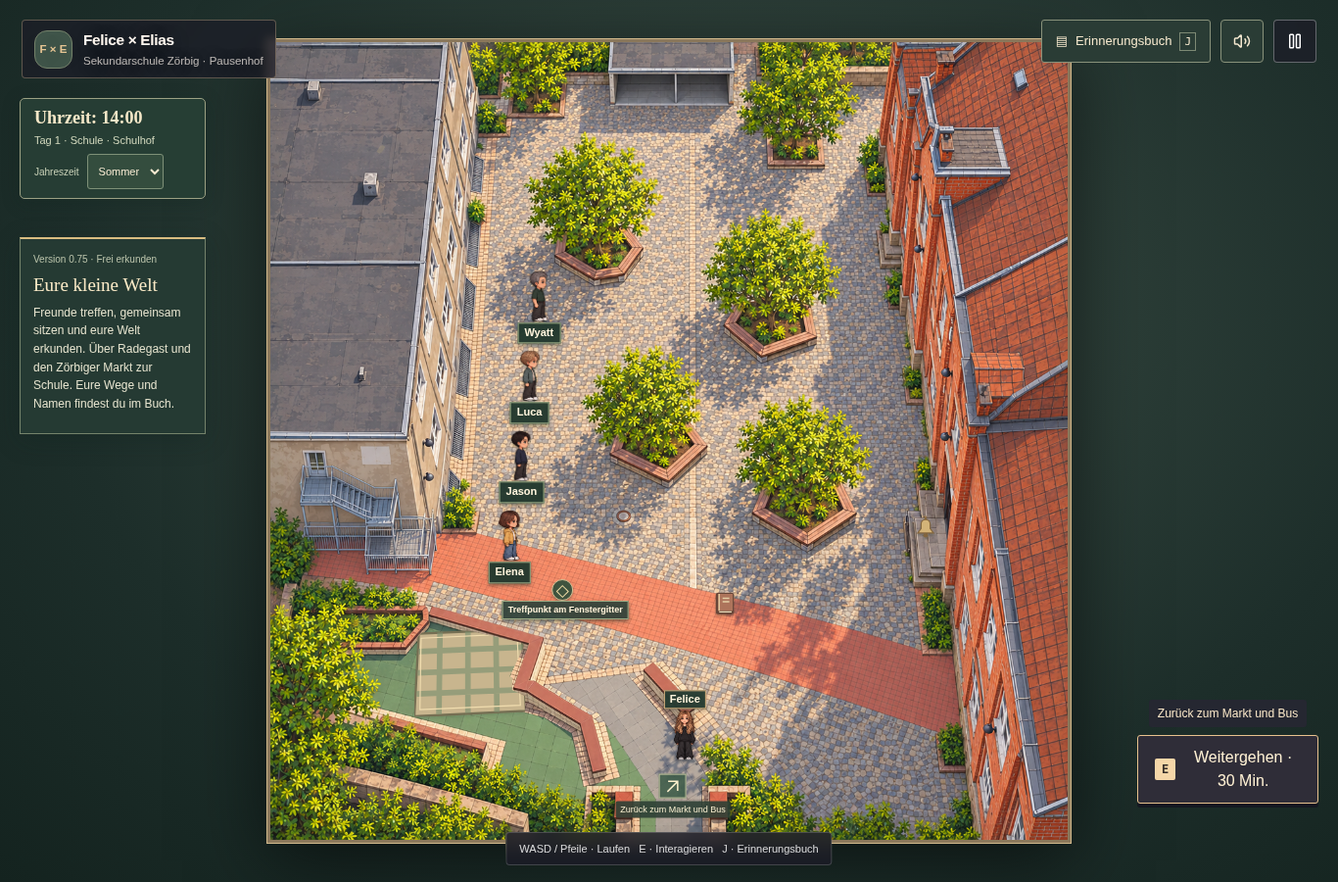
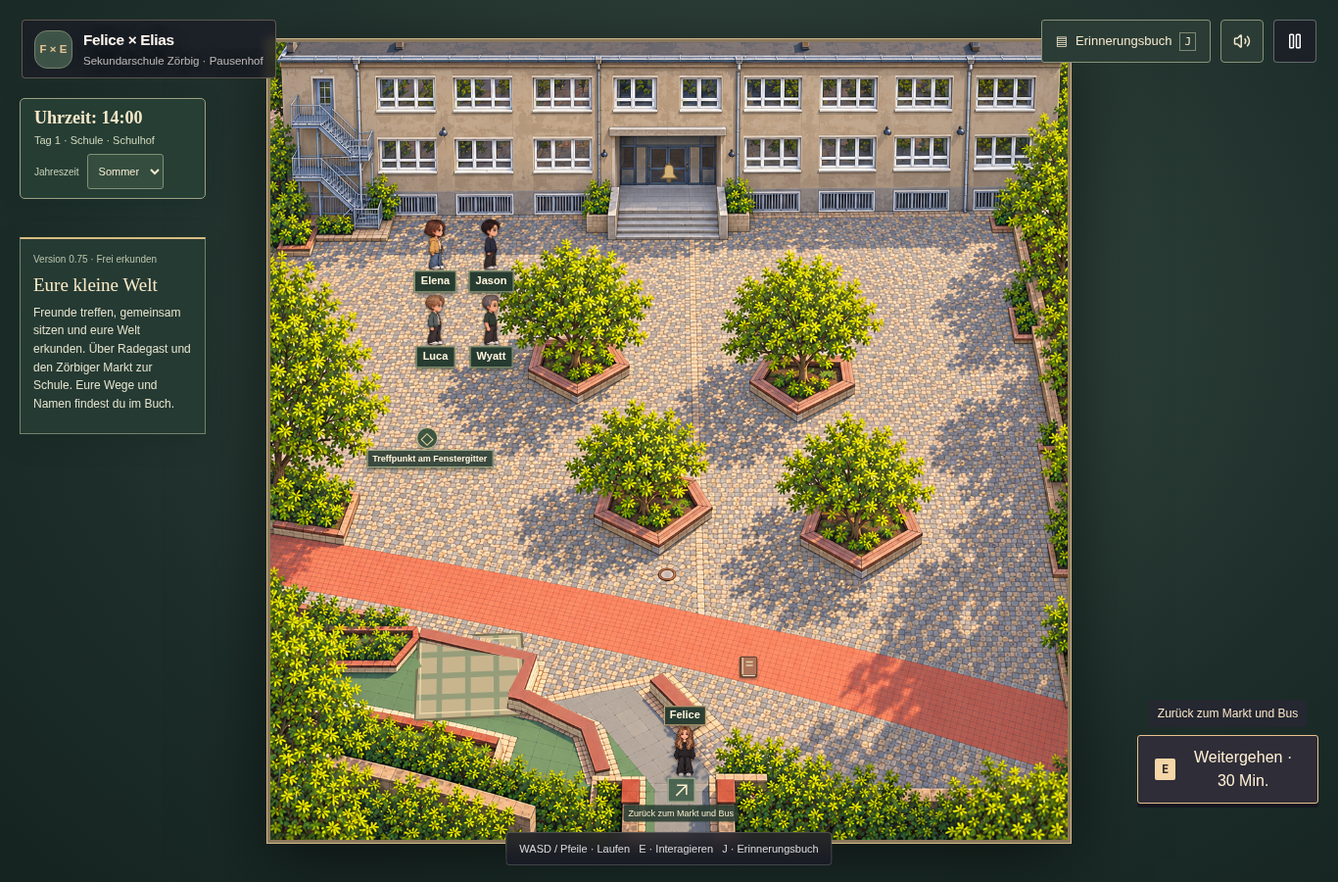
V0.75: center secondary-school entrance in courtyard background

diff --git a/game/story.ts b/game/story.ts
@@ -31,9 +31,9 @@ export const PLACES: Record<Place, { name: string; subtitle: string; exits: Exit
   ], obstacles: [] },
   zoerbig: { name: "Zörbig · Markt und Schulweg", subtitle: "Von der Bushaltestelle zur Grünstraße", exits: [
     { x: .47, y: .20, to: "bus", label: "Bus zurück nach Radegast", spawn: { x: .74, y: .47 } },
-    { x: .17, y: .76, to: "school", label: "Zum Pausenhof", spawn: { x: .52, y: .90 } },
+    { x: .17, y: .76, to: "school", label: "Zum Pausenhof", spawn: { x: .52, y: .92 } },
   ], obstacles: [{ left: .525, right: .555, top: .15, bottom: .21 }] },
-  school: { name: "Sekundarschule Zörbig · Pausenhof", subtitle: "Treffpunkt an den Fenstergittern", exits: [{ x: .505, y: .945, to: "zoerbig", label: "Zurück zum Markt und Bus", spawn: { x: .20, y: .75 } }], obstacles: [] },
+  school: { name: "Sekundarschule Zörbig · Pausenhof", subtitle: "Treffpunkt an den Fenstergittern", exits: [{ x: .515, y: .95, to: "zoerbig", label: "Zurück zum Markt und Bus", spawn: { x: .20, y: .75 } }], obstacles: [] },
   goelzau: { name: "Gölzau · Weg zum Schützenhaus", subtitle: "Ankommen, Freunde treffen, zusammen schießen", exits: [
     { x: .90, y: .65, to: "bus", label: "Zurück nach Radegast", spawn: { x: .82, y: .76 } },
     { x: .265, y: .285, to: "range", label: "Ins Schützenhaus", spawn: { x: .5, y: .82 } },
@@ -81,13 +81,13 @@ export const ENTITIES: Record<Place, Entity[]> = {
     { id: "ticket", name: "Fahrkarte", x: .39, y: .48, display: { x: .405, y: .40 }, kind: "item", art: "ticket", text: "Eine Fahrkarte für den gemeinsamen Weg." },
   ],
   school: [
-    { id: "school-grille", name: "Treffpunkt am Fenstergitter", x: .32, y: .60, display: { x: .37, y: .70 }, kind: "item", art: "landmark", text: "Die niedrigen Gitter sitzen vor den unteren Fenstern des grauen Schulgebäudes. Hier stehen Elena, Jason, Luca und Wyatt in der Pause." },
-    { id: "friends", name: "Elena", x: .27, y: .66, kind: "person", art: "elena", text: "Hey Felice! Wir treffen uns am Gitter beim Schulgebäude. Bleibst du noch ein bisschen bei mir?" },
-    { id: "jason", name: "Jason", x: .285, y: .56, kind: "person", art: "jason", text: "Hey. Ich mache gerade eine kleine Pause am Gitter. Du kannst dich gern dazustellen." },
-    { id: "luca", name: "Luca", x: .295, y: .46, kind: "person", art: "luca", text: "Hallo Felice. Heute ist es hier ziemlich ruhig. Das mag ich." },
-    { id: "wyatt", name: "Wyatt", x: .305, y: .36, kind: "person", art: "wyatt", text: "Hey Felice! Schön, dass du da bist." },
-    { id: "notebook", name: "Vergessenes Heft", x: .57, y: .72, kind: "item", art: "book", text: "Jemand hat ein Heft liegen gelassen." },
-    { id: "school-door", name: "Schultür", x: .77, y: .684, display: { x: .822, y: .625 }, kind: "item", art: "bell", text: "Der Unterricht ist vorbei. Zeit für den gemeinsamen Heimweg." },
+    { id: "school-grille", name: "Treffpunkt am Fenstergitter", x: .225, y: .35, display: { x: .20, y: .51 }, kind: "item", art: "landmark", text: "Die niedrigen Gitter sitzen vor den unteren Fenstern des grauen Schulgebäudes. Hier stehen Elena, Jason, Luca und Wyatt in der Pause." },
+    { id: "friends", name: "Elena", x: .18, y: .295, kind: "person", art: "elena", text: "Hey Felice! Wir treffen uns am Gitter beim Schulgebäude. Bleibst du noch ein bisschen bei mir?" },
+    { id: "jason", name: "Jason", x: .25, y: .295, kind: "person", art: "jason", text: "Hey. Ich mache gerade eine kleine Pause am Gitter. Du kannst dich gern dazustellen." },
+    { id: "luca", name: "Luca", x: .18, y: .39, kind: "person", art: "luca", text: "Hallo Felice. Heute ist es hier ziemlich ruhig. Das mag ich." },
+    { id: "wyatt", name: "Wyatt", x: .25, y: .39, kind: "person", art: "wyatt", text: "Hey Felice! Schön, dass du da bist." },
+    { id: "notebook", name: "Vergessenes Heft", x: .60, y: .80, kind: "item", art: "book", text: "Jemand hat ein Heft liegen gelassen." },
+    { id: "school-door", name: "Eingang der Sekundarschule", x: .50, y: .28, display: { x: .50, y: .18 }, kind: "item", art: "bell", text: "Der Unterricht ist vorbei. Zeit für den gemeinsamen Heimweg." },
   ],
   range: [{ id: "range-host", name: "Am Schießstand", x: .32, y: .57, kind: "person", art: "host", text: "Die Bahn ist bereit. Neun Schüsse, drei Scheiben. Nimm dir Zeit." }, { id: "shoot", name: "Schießbahn", x: .5, y: .44, kind: "item", art: "target", text: "Bereit für deine Runde?" },
     { id: "ida", name: "Ida", x: .19, y: .68, kind: "person", art: "ida", text: "Hallo Felice! Schön, dich beim Schießen zu sehen." },
@@ -169,26 +169,30 @@ const WALK_AREAS: Partial<Record<Place, Point[][]>> = {
   ],
   goelzau: [[{x:.09,y:.26},{x:.61,y:.24},{x:.65,y:.32},{x:.69,y:.43},{x:.77,y:.50},{x:.83,y:.59},{x:.95,y:.59},{x:.95,y:.70},{x:.83,y:.73},{x:.79,y:.63},{x:.72,y:.55},{x:.66,y:.49},{x:.52,y:.45},{x:.35,y:.43},{x:.20,y:.42},{x:.09,y:.35}]],
 };
-// Ground footprints measured against the high overhead school courtyard.
-// The green corner remains reachable around the southern tip of its sitting wall.
+// Secondary-school facade and centered entrance at the back of the courtyard.
+// The primary school is outside this scene; only a planting strip bounds the right.
 const SOLID_AREAS: Partial<Record<Place, Point[][]>> = {
   school: [
-    [{x:0,y:0},{x:0.27,y:0},{x:0.263,y:0.137},{x:0.244,y:0.35},{x:0.228,y:0.56},{x:0.221,y:0.616},{x:0.205,y:0.669},{x:0,y:0.669}],
-    [{x:0.773,y:0},{x:1,y:0},{x:1,y:1},{x:0.869,y:1},{x:0.82,y:0.83},{x:0.792,y:0.59},{x:0.779,y:0.37},{x:0.762,y:0.22}],
-    [{x:0.355,y:0.262},{x:0.405,y:0.246},{x:0.455,y:0.253},{x:0.468,y:0.263},{x:0.444,y:0.296},{x:0.408,y:0.304},{x:0.357,y:0.284}],
-    [{x:0.568,y:0.348},{x:0.61,y:0.325},{x:0.665,y:0.335},{x:0.694,y:0.376},{x:0.621,y:0.4},{x:0.57,y:0.361}],
-    [{x:0.426,y:0.511},{x:0.47,y:0.49},{x:0.525,y:0.497},{x:0.55,y:0.514},{x:0.507,y:0.559},{x:0.43,y:0.529}],
-    [{x:0.603,y:0.59},{x:0.65,y:0.562},{x:0.73,y:0.573},{x:0.739,y:0.598},{x:0.668,y:0.64},{x:0.608,y:0.614}],
-    [{x:0.621,y:0.126},{x:0.69,y:0.126},{x:0.699,y:0.156},{x:0.624,y:0.16}],
-    [{x:0.196,y:0.705},{x:0.344,y:0.742},{x:0.343,y:0.761},{x:0.329,y:0.809},{x:0.3,y:0.795},{x:0.32,y:0.754},{x:0.189,y:0.724}],
-    [{x:0.304,y:0.79},{x:0.39,y:0.836},{x:0.414,y:0.914},{x:0.394,y:0.927},{x:0.384,y:0.85},{x:0.303,y:0.812}],
-    [{x:0.086,y:0.838},{x:0.267,y:0.872},{x:0.286,y:0.888},{x:0.29,y:0.904},{x:0.269,y:0.918},{x:0.25,y:0.885},{x:0.083,y:0.861}],
-    [{x:0.467,y:0.787},{x:0.48,y:0.779},{x:0.529,y:0.841},{x:0.511,y:0.861},{x:0.5,y:0.864},{x:0.461,y:0.808}],
-    [{x:0,y:0.675},{x:0.186,y:0.685},{x:0.199,y:0.72},{x:0.173,y:0.764},{x:0,y:0.764}],
-    [{x:0,y:0.88},{x:0.27,y:0.924},{x:0.322,y:0.957},{x:0.384,y:1},{x:0,y:1}],
-    [{x:0.55,y:0.9},{x:0.632,y:0.9},{x:0.733,y:1},{x:0.55,y:1}],
-    [{x:0.432,y:0.936},{x:0.462,y:0.936},{x:0.468,y:1},{x:0.432,y:1}],
-    [{x:0.548,y:0.94},{x:0.575,y:0.94},{x:0.578,y:1},{x:0.548,y:1}],
+    [{x:0,y:0},{x:1,y:0},{x:1,y:0.223},{x:0,y:0.223}],
+    [{x:0.421,y:0.176},{x:0.578,y:0.176},{x:0.578,y:0.25},{x:0.421,y:0.25}],
+    [{x:0.019,y:0.061},{x:0.136,y:0.061},{x:0.136,y:0.233},{x:0.107,y:0.252},{x:0.022,y:0.239}],
+    [{x:0.325,y:0.402},{x:0.373,y:0.386},{x:0.45,y:0.403},{x:0.457,y:0.415},{x:0.384,y:0.455},{x:0.323,y:0.426}],
+    [{x:0.605,y:0.421},{x:0.646,y:0.398},{x:0.72,y:0.422},{x:0.74,y:0.439},{x:0.671,y:0.478},{x:0.598,y:0.44}],
+    [{x:0.409,y:0.582},{x:0.46,y:0.56},{x:0.538,y:0.584},{x:0.557,y:0.605},{x:0.49,y:0.645},{x:0.402,y:0.604}],
+    [{x:0.676,y:0.611},{x:0.722,y:0.589},{x:0.799,y:0.61},{x:0.821,y:0.636},{x:0.752,y:0.683},{x:0.667,y:0.644}],
+    [{x:0,y:0.242},{x:0.119,y:0.239},{x:0.13,y:0.256},{x:0.057,y:0.267},{x:0,y:0.267}],
+    [{x:0,y:0.276},{x:0.083,y:0.279},{x:0.114,y:0.296},{x:0.093,y:0.34},{x:0,y:0.34}],
+    [{x:0,y:0.55},{x:0.083,y:0.55},{x:0.117,y:0.577},{x:0.088,y:0.63},{x:0,y:0.63}],
+    [{x:0,y:0.759},{x:0.158,y:0.759},{x:0.19,y:0.783},{x:0.16,y:0.797},{x:0,y:0.797}],
+    [{x:0.183,y:0.726},{x:0.339,y:0.765},{x:0.344,y:0.787},{x:0.317,y:0.824},{x:0.296,y:0.819},{x:0.32,y:0.774},{x:0.176,y:0.751}],
+    [{x:0.301,y:0.811},{x:0.415,y:0.86},{x:0.429,y:0.921},{x:0.415,y:0.931},{x:0.398,y:0.879},{x:0.296,y:0.835}],
+    [{x:0.082,y:0.847},{x:0.276,y:0.88},{x:0.305,y:0.904},{x:0.295,y:0.926},{x:0.277,y:0.917},{x:0.274,y:0.901},{x:0.08,y:0.87}],
+    [{x:0.476,y:0.796},{x:0.49,y:0.789},{x:0.557,y:0.86},{x:0.531,y:0.885},{x:0.522,y:0.88},{x:0.464,y:0.815}],
+    [{x:0,y:0.885},{x:0.286,y:0.927},{x:0.362,y:0.964},{x:0.393,y:1},{x:0,y:1}],
+    [{x:0.622,y:0.921},{x:0.717,y:0.921},{x:0.79,y:1},{x:0.622,y:1}],
+    [{x:0.944,y:0.25},{x:1,y:0.25},{x:1,y:1},{x:0.98,y:0.875},{x:0.956,y:0.591}],
+    [{x:0.443,y:0.923},{x:0.479,y:0.923},{x:0.479,y:1},{x:0.443,y:1}],
+    [{x:0.557,y:0.923},{x:0.588,y:0.923},{x:0.588,y:1},{x:0.557,y:1}],
   ],
 };
 function insideArea(x: number, y: number, points: Point[]) {
@@ -202,7 +206,7 @@ function insideArea(x: number, y: number, points: Point[]) {
 export function canWalk(place: Place, x: number, y: number) {
   return (!SOLID_AREAS[place] || !SOLID_AREAS[place]!.some(points => insideArea(x,y,points))) && (!WALK_AREAS[place] || WALK_AREAS[place]!.some(points => insideArea(x,y,points))) && x >= .075 && x <= .94 && y >= .16 && y <= (place === "school" ? .96 : .92) && !PLACES[place].obstacles.some(o => x > o.left - .02 && x < o.right + .02 && y > o.top - .015 && y < o.bottom + .015);
 }
-export const SPAWNS: Record<Place, Point> = { bedroom: { x: .5, y: .7 }, home: { x: .5, y: .78 }, kitchen: { x: .5, y: .85 }, garden: { x: .5, y: .38 }, radegast: { x: .435, y: .28 }, bus: { x: .5, y: .72 }, zoerbig: { x: .61, y: .285 }, school: { x: .52, y: .90 }, goelzau: { x: .86, y: .63 }, range: { x: .5, y: .8 } };
+export const SPAWNS: Record<Place, Point> = { bedroom: { x: .5, y: .7 }, home: { x: .5, y: .78 }, kitchen: { x: .5, y: .85 }, garden: { x: .5, y: .38 }, radegast: { x: .435, y: .28 }, bus: { x: .5, y: .72 }, zoerbig: { x: .61, y: .285 }, school: { x: .52, y: .92 }, goelzau: { x: .86, y: .63 }, range: { x: .5, y: .8 } };
 export function routeTo(from: Place, to: Place): Exit | undefined {
   const queue: { place: Place; first?: Exit }[] = [{ place: from }];
   const seen = new Set<Place>([from]);

diff --git a/game/graphics.ts b/game/graphics.ts
@@ -18,26 +18,27 @@ export const SCENE_GRAPHICS: Record<Place, SceneGraphic> = {
     { clip: "polygon(68% 0%,100% 0%,100% 100%,18% 100%,18% 80%,31% 71%,38% 65%,40% 61%,37% 54%,37% 46%,39% 42%,43% 38%,47% 33%,67% 31%)", depth:96 },
     rect(52.5,15,55.5,21),
   ] },
-  school: { background: "/rooms/school-court-overhead-v075.png", outdoors: true, light: "#e9dbb8", foreground: [
-    { clip: "polygon(0% 0%,27% 0%,26.3% 13.7%,24.4% 35%,22.8% 56%,22.1% 61.6%,20.5% 66.9%,0% 66.9%)", depth:67 },
-    { clip: "polygon(77.3% 0%,100% 0%,100% 100%,86.9% 100%,82% 83%,79.2% 59%,77.9% 37%,76.2% 22%)", depth:99 },
-    rect(42.3,0,58.3,8.5),
-    { clip: "polygon(32% 0%,42% 0%,42% 7%,37% 10%,37% 12%,27% 12%,26% 8%,27% 2%)", depth:12 },
-    { clip: "polygon(62% 0%,74% 0%,74% 8%,70% 12%,69.9% 15.6%,62.4% 16%,61% 10%,60% 4%)", depth:16 },
-    { clip: "polygon(35% 15%,43% 12%,49% 16%,50% 23%,45% 27%,46.8% 26.3%,44.4% 29.6%,40.8% 30.4%,35.7% 28.4%,32% 23%,32% 18%)", depth:30.4 },
-    { clip: "polygon(59% 22%,65% 20%,70% 24%,72% 31%,69% 35%,69.4% 37.6%,62.1% 40%,57% 36.1%,54% 31%,55% 26%)", depth:40 },
-    { clip: "polygon(43% 41%,49% 38%,54% 42%,55% 49%,55% 51.4%,50.7% 55.9%,43% 52.9%,39% 47%,40% 43%)", depth:55.9 },
-    { clip: "polygon(60% 48%,66% 44%,72% 46%,75% 54%,73.9% 59.8%,66.8% 64%,60.8% 61.4%,56% 55%,56% 50%)", depth:64 },
-    { clip: "polygon(0% 64%,12% 67%,19% 69%,20% 73%,17% 76%,10% 78%,0% 77%)", depth:78 },
-    { clip: "polygon(0% 75%,10% 75%,14% 82%,15% 90%,27% 87%,34% 89%,41% 96%,40% 100%,0% 100%)", depth:100 },
-    { clip: "polygon(55% 89%,61% 88%,68% 92%,74% 100%,55% 100%)", depth:100 },
-    { clip: "polygon(19.6% 70.5%,34.4% 74.2%,34.3% 76.1%,32.9% 80.9%,30% 79.5%,32% 75.4%,18.9% 72.4%)", depth:81 },
-    { clip: "polygon(30.4% 79%,39% 83.6%,41.4% 91.4%,39.4% 92.7%,38.4% 85%,30.3% 81.2%)", depth:93 },
-    { clip: "polygon(8.6% 83.8%,26.7% 87.2%,28.6% 88.8%,29% 90.4%,26.9% 91.8%,25% 88.5%,8.3% 86.1%)", depth:92 },
-    { clip: "polygon(46.7% 78.7%,48% 77.9%,50.1% 80.7%,47.9% 82.6%,46.1% 80.8%)", depth:81 },
-    { clip: "polygon(47.9% 82.6%,50.1% 80.7%,51.6% 82.5%,49.8% 84.9%,49% 84.4%)", depth:83 },
-    { clip: "polygon(49.8% 84.9%,51.6% 82.5%,52.9% 84.1%,51.1% 86.1%,50% 86.4%,49% 84.4%)", depth:86 },
-    rect(43.2,93.6,46.2,100,100),rect(54.8,94,57.5,100,100),
+  school: { background: "/rooms/school-court-secondary-v075.png", outdoors: true, light: "#e9dbb8", foreground: [
+    rect(0,0,100,22.3),rect(42.1,17.6,57.8,25),
+    { clip: "polygon(1.9% 6.1%,13.6% 6.1%,13.6% 23.3%,10.7% 25.2%,2.2% 23.9%)", depth:25.2 },
+    { clip: "polygon(31.5% 28%,38% 25.5%,45% 28%,48% 33%,46% 38%,45% 40.3%,45.7% 41.5%,38.4% 45.5%,32.3% 42.6%,32.5% 40.2%,31.5% 35%)", depth:45.5 },
+    { clip: "polygon(55% 31%,61% 27.5%,69% 28%,75% 33%,76% 39%,72% 42.2%,74% 43.9%,67.1% 47.8%,59.8% 44%,60.5% 42.1%,56% 39%)", depth:47.8 },
+    { clip: "polygon(36% 50%,41% 45%,50% 44.5%,56% 50%,55% 56%,53.8% 58.4%,55.7% 60.5%,49% 64.5%,40.2% 60.4%,40.9% 58.2%,37% 55%)", depth:64.5 },
+    { clip: "polygon(62% 53%,68% 47%,76% 48%,83% 53%,84% 59%,79.9% 61%,82.1% 63.6%,75.2% 68.3%,66.7% 64.4%,67.6% 61.1%,64% 58%)", depth:68.3 },
+    { clip: "polygon(0% 14%,5% 13%,9% 17%,14% 18%,14% 23.9%,13% 25.6%,5.7% 26.7%,0% 26.7%)", depth:26.7 },
+    { clip: "polygon(0% 26%,8% 27.9%,11.4% 29.6%,9.3% 34%,0% 34%)", depth:34 },
+    { clip: "polygon(0% 32%,8% 31%,13% 38%,13% 46%,10% 51%,11.7% 57.7%,8.8% 63%,0% 63%)", depth:63 },
+    { clip: "polygon(0% 67%,12% 68%,16% 73%,19% 78.3%,16% 79.7%,0% 79.7%)", depth:79.7 },
+    { clip: "polygon(18.3% 72.6%,33.9% 76.5%,34.4% 78.7%,31.7% 82.4%,29.6% 81.9%,32% 77.4%,17.6% 75.1%)", depth:82.4 },
+    { clip: "polygon(30.1% 81.1%,41.5% 86%,43.7% 92.5%,41.6% 93.8%,39.8% 87.9%,29.6% 83.5%)", depth:93.8 },
+    { clip: "polygon(8.2% 84.7%,27.6% 88%,30.5% 90.4%,29.5% 92.6%,27.7% 91.7%,27.4% 90.1%,8% 87%)", depth:92.6 },
+    { clip: "polygon(47.6% 79.6%,49% 78.9%,51.2% 81.4%,48.8% 83.8%,46.4% 81.5%)", depth:82 },
+    { clip: "polygon(48.8% 83.8%,51.2% 81.4%,53.5% 84%,51.1% 86.2%)", depth:85 },
+    { clip: "polygon(51.1% 86.2%,53.5% 84%,55.7% 86%,53.1% 88.5%,52.2% 88%)", depth:88.5 },
+    { clip: "polygon(0% 88.5%,28.6% 92.7%,36.2% 96.4%,39.3% 100%,0% 100%)", depth:100 },
+    { clip: "polygon(62.2% 92.1%,71.7% 92.1%,79% 100%,62.2% 100%)", depth:100 },
+    { clip: "polygon(94.4% 25%,100% 25%,100% 100%,98% 87.5%,95.6% 59.1%)", depth:100 },
+    rect(44.3,92.3,47.9,100,100),rect(55.7,92.3,58.8,100,100),
   ] },
   goelzau: { background: "/rooms/goelzau-walk-v075.png", outdoors: true, light: "#dfe5ba", foreground: [rect(5,0,63,24.5),rect(71,0,100,43),
     { clip: "polygon(0% 40%,20% 42%,35% 43%,52% 45%,66% 49%,72% 55%,79% 63%,83% 73%,0% 100%)", depth:96 },

diff --git a/game/SceneArt.tsx b/game/SceneArt.tsx
@@ -53,15 +53,18 @@ export const SceneArt = memo(function SceneArt({ place, christmas }: { place: Pl
     </>}
     {place === "school" && <>
       <rect width="600" height="600" fill="url(#paving)"/>
-      <path d="M0 0H160L129 395H0Z" fill="#b0aa98"/><path d="M0 0H134L108 300H0Z" fill="#777b79"/>
-      {[50,110,170,230,290,345].map((y,i)=><g key={y}><path d={`M${151-i*4} ${y}l-2 25`} stroke="#ede9df" strokeWidth="5"/><path d={`M${158-i*4} ${y+28}l-2 19`} stroke="#65706a" strokeWidth="8"/></g>)}
-      <path d="M30 325h82v67H30ZM30 347h82M30 368h82M68 325v67" stroke="#c5d0cb" strokeWidth="5" fill="none"/>
-      <path d="M466 0H600V600H521L486 399Z" fill="#a36346"/><path d="M499 0H600V600H546L514 400Z" fill="#a7553b"/>
-      {[15,45,75,105,135,165,195,225,255,285,315,345,375,405,435,465,495,525,555].map(y=><path key={y} d={`M505 ${y}H600`} stroke="#733d2e" strokeWidth="2"/>)}
-      <path d="M0 388 510 496" stroke="#ba765a" strokeWidth="44"/><rect x="254" y="0" width="96" height="50" fill="#797a70"/>
-      <path d="M50 440 196 470 183 488 229 510 238 560 60 534Z" fill="#78966b"/>
-      <path d="M115 428 200 452 187 478 235 510 244 554M60 510 160 530M282 474 310 508" stroke="#a16851" strokeWidth="10" fill="none"/>
-      {[{x:246,y:164},{x:374,y:222},{x:293,y:316},{x:400,y:365}].map(p=><g key={p.x}><path d={`M${p.x-30} ${p.y-12}l30 -17 35 17 -30 21Z`} fill="#956d4e"/><circle cx={p.x} cy={p.y-18} r="30" fill="#627e42"/><circle cx={p.x-12} cy={p.y-23} r="20" fill="#7c9850"/><circle cx={p.x+15} cy={p.y-20} r="22" fill="#6f9048"/></g>)}
+      <rect width="600" height="134" fill="#b0aa98"/><rect width="600" height="16" fill="#777b79"/>
+      {[35,85].map(y=>[90,155,220,350,415,480,545].map(x=><g key={`${x}-${y}`}><rect x={x-22} y={y-9} width="44" height="27" fill="#60716b"/><path d={`M${x-22} ${y-9}h44v27h-44ZM${x} ${y-9}v27`} stroke="#ede9df" strokeWidth="3" fill="none"/></g>))}
+      {[90,155,220,350,415,480,545].map(x=><g key={x}><rect x={x-22} y="114" width="44" height="16" fill="#52615c"/>{[-16,-8,0,8,16].map(dx=><path key={dx} d={`M${x+dx} 114v16`} stroke="#c5d0cb" strokeWidth="2"/>)}</g>)}
+      <rect x="260" y="85" width="80" height="49" fill="#465652"/><path d="M270 92h60v37h-60ZM300 92v37" stroke="#84928b" strokeWidth="3" fill="none"/>
+      <path d="M253 134h94v16h-94Z" fill="#c1bca9"/><path d="M253 138h94M253 143h94M253 148h94" stroke="#8e958c" strokeWidth="2"/>
+      <path d="M20 58h40v35l20 25v30M20 58v77h60M20 72h40M20 94h40M20 116h40" stroke="#a6b5b2" strokeWidth="4" fill="none"/>
+      <path d="M0 393 600 483" stroke="#ba765a" strokeWidth="44"/>
+      <path d="M50 458 194 481 184 502 243 528 257 562 176 551 55 519Z" fill="#78966b"/>
+      <path d="M107 443 200 465 184 493 241 525 257 555M49 515 164 539 176 552M284 482 326 525" stroke="#a16851" strokeWidth="10" fill="none"/>
+      {[{x:235,y:257},{x:403,y:270},{x:287,y:365},{x:448,y:386}].map(p=><g key={p.x}><path d={`M${p.x-36} ${p.y-16}l36 -16 39 16 -39 25Z`} fill="#956d4e"/><circle cx={p.x} cy={p.y-23} r="41" fill="#627e42"/><circle cx={p.x-15} cy={p.y-29} r="27" fill="#7c9850"/><circle cx={p.x+19} cy={p.y-26} r="29" fill="#6f9048"/></g>)}
+      <path d="M0 145h48M0 330h50M570 145v455M0 580h230M380 580h60" stroke="#627e42" strokeWidth="24"/>
+      <path d="M268 560v40M341 560v40" stroke="#a16851" strokeWidth="16"/>
     </>}
     {place === "range" && <>
       <rect width="600" height="211" fill="#b8baa3"/><path d="M0 192h600" stroke="#8c6d4d" strokeWidth="16"/>

diff --git a/game/day.ts b/game/day.ts
@@ -82,14 +82,14 @@ export const REST_SPOTS: RestSpot[] = [
   { id: "home-sofa", place: "home", name: "Sofa im Wohnzimmer", kind: "chair", approach: { x: .36, y: .48 }, position: { x: .275, y: .412 }, companion: { x: .345, y: .412 } },
   { id: "kitchen-rest", place: "kitchen", name: "Kuscheldecke", kind: "mat", approach: { x: .24, y: .81 }, position: { x: .2, y: .75 }, companion: { x: .28, y: .75 }, furniture: { x: .24, y: .77 } },
   { id: "kitchen-chairs", place: "kitchen", name: "Stuhl am Küchentisch", kind: "chair", approach: { x: .7, y: .64 }, position: { x: .654, y: .582 }, companion: { x: .783, y: .582 } },
-  { id: "school-picnic", place: "school", name: "Picknickdecke", kind: "mat", approach: { x: .315, y: .887 }, position: { x: .215, y: .849 }, companion: { x: .285, y: .849 }, furniture: { x: .25, y: .845 } },
+  { id: "school-picnic", place: "school", name: "Picknickdecke", kind: "mat", approach: { x: .35, y: .90 }, position: { x: .22, y: .855 }, companion: { x: .285, y: .855 }, furniture: { x: .25, y: .85 } },
   { id: "range-rest", place: "range", name: "Ruhedecke", kind: "mat", approach: { x: .22, y: .92 }, position: { x: .18, y: .885 }, companion: { x: .26, y: .885 }, furniture: { x: .22, y: .905 } },
   { id: "home-rest", place: "home", name: "Kuscheldecke zum Ausruhen", kind: "mat", approach: { x: .45, y: .78 }, position: { x: .425, y: .72 }, companion: { x: .505, y: .72 }, furniture: { x: .465, y: .74 } },
   { id: "bus-rest", place: "bus", name: "Decke am Platzrand", kind: "mat", approach: { x: .38, y: .85 }, position: { x: .34, y: .79 }, companion: { x: .42, y: .79 }, furniture: { x: .38, y: .81 } },
   { id: "felice-bed", place: "bedroom", name: "Felices Bett", kind: "bed", approach: { x: .30, y: .49 }, position: { x: .255, y: .225 } },
   { id: "garden-bench", place: "garden", name: "Gartenbank", kind: "bench", approach: { x: .25, y: .65 }, position: { x: .215, y: .602 }, companion: { x: .28, y: .602 }, furniture: { x: .25, y: .61 } },
   { id: "bus-bench", place: "bus", name: "Bank an der Haltestelle", kind: "bench", approach: { x: .33, y: .485 }, position: { x: .312, y: .419 }, companion: { x: .362, y: .419 } },
-  { id: "school-bench", place: "school", name: "Sitzrand am vorderen Baum", kind: "bench", approach: { x: .661, y: .698 }, position: { x: .636, y: .643 }, companion: { x: .686, y: .651 } },
-  { id: "school-bench-right", place: "school", name: "Sitzmauer am Gehweg", kind: "bench", approach: { x: .555, y: .843 }, position: { x: .489, y: .829 }, companion: { x: .521, y: .86 } },
+  { id: "school-bench", place: "school", name: "Sitzrand am vorderen Baum", kind: "bench", approach: { x: .738, y: .738 }, position: { x: .711, y: .681 }, companion: { x: .768, y: .690 } },
+  { id: "school-bench-right", place: "school", name: "Sitzmauer am Gehweg", kind: "bench", approach: { x: .582, y: .867 }, position: { x: .493, y: .846 }, companion: { x: .543, y: .883 } },
   { id: "range-bench", place: "range", name: "Bank am Schießstand", kind: "bench", approach: { x: .76, y: .89 }, position: { x: .725, y: .835 }, companion: { x: .79, y: .835 }, furniture: { x: .76, y: .845 } },
 ];

diff --git a/game/actors.ts b/game/actors.ts
@@ -14,10 +14,10 @@ export function standingActor(position: Point, wait = 0): Actor {
 // Four short routes beside the gray building's basement window grilles.
 // Elias is invited to the separate seating area and has no group patrol.
 export const SCHOOL_ROUTES: Record<string, Point[]> = {
-  friends: [{ x: .27, y: .66 }, { x: .30, y: .65 }, { x: .305, y: .678 }, { x: .275, y: .688 }],
-  jason: [{ x: .285, y: .56 }, { x: .315, y: .55 }, { x: .32, y: .578 }, { x: .29, y: .588 }],
-  luca: [{ x: .295, y: .46 }, { x: .325, y: .45 }, { x: .33, y: .478 }, { x: .30, y: .488 }],
-  wyatt: [{ x: .305, y: .36 }, { x: .337, y: .35 }, { x: .342, y: .38 }, { x: .31, y: .39 }],
+  friends: [{ x: .18, y: .295 }, { x: .207, y: .285 }, { x: .212, y: .315 }, { x: .185, y: .325 }],
+  jason: [{ x: .25, y: .295 }, { x: .277, y: .285 }, { x: .282, y: .315 }, { x: .255, y: .325 }],
+  luca: [{ x: .18, y: .39 }, { x: .207, y: .38 }, { x: .212, y: .41 }, { x: .185, y: .42 }],
+  wyatt: [{ x: .25, y: .39 }, { x: .277, y: .38 }, { x: .282, y: .41 }, { x: .255, y: .42 }],
 };
 export function initialActors(): Actors {
   return Object.fromEntries(Object.values(ENTITIES).flat().filter(e => e.kind === "person" && canChangePose(e.art)).map((e, i) => [e.id, standingActor({ x: e.x, y: e.y }, 1.5 + i % 4)]));

diff --git a/game/world.css b/game/world.css
@@ -226,7 +226,7 @@
 .version-075[data-scene="radegast"] .entity-person,
 .version-075[data-scene="zoerbig"] .entity-person { width:4.8%!important; }
 
-/* High overhead school courtyard: match the figure scale to the visible roofs. */
+/* Overhead school courtyard: match the figure scale to the building and yard. */
 .version-075[data-scene="school"] .room-player,
 .version-075[data-scene="school"] .entity-person { width:4.8%!important; }
 .version-075[data-scene="school"] .rest-mat { width:14%; }
@@ -234,3 +234,8 @@
 
 .version-075[data-scene="school"] [data-rest-id^="school-bench-right"].pose-sitting .room-player-label,
 .version-075[data-scene="school"] [data-rest-id^="school-bench-right"].pose-sitting .entity-name { left:0; transform:translateX(-100%); }
+
+.version-075[data-scene="school"] [data-rest-id^="school-picnic"].pose-lying .entity-name { top:auto; bottom:100%; }
+@media (max-height:600px) and (orientation:landscape) {
+  .version-075[data-scene="school"] .entity-person .entity-name { font-size:8px; padding:1px 2px; }
+}

diff --git a/qa/v075/REVIEW.md b/qa/v075/REVIEW.md
@@ -1,20 +1,20 @@
 # V0.75 – Orts- und Szenenprüfung
 
-Geprüft am 06.10.2026 mit Chromium, agent-browser und dem lokalen Vinext-Entwicklungsserver. Alle zehn Orte wurden in 1366 × 900 und 844 × 390 aufgenommen und auf Darstellung sowie horizontales Überlaufen geprüft. Der Schulhof wurde anschließend mit den vier Nutzerfotos neu gestaltet, auf steile Vogelperspektive umgestellt und in beiden Größen erneut geprüft. Die [Ortsreferenzen](SOURCES.md) beschreiben den Fotoabgleich und seine Grenzen.
+Geprüft am 06.10.2026 mit Chromium, agent-browser und dem lokalen Vinext-Entwicklungsserver. Alle zehn Orte wurden in 1366 × 900 und 844 × 390 aufgenommen und auf Darstellung sowie horizontales Überlaufen geprüft. Der Schulhof wurde anschließend mit den vier Nutzerfotos neu gestaltet, auf Vogelperspektive mit Sekundarschule im oberen Hintergrund und zentralem Eingang umgestellt und in beiden Größen erneut geprüft. Die [Ortsreferenzen](SOURCES.md) beschreiben den Fotoabgleich und seine Grenzen.
 
 ## Ergebnis
 
 - 42 Logiktests bestanden: kollisionsgeprüfte Hin- und Rückwege in den drei Wegszenen, Schul-/Schießrouten über die neuen Ankunftsorte, kompatible Kapitelstände sowie genau vier Freunde am Fenstergitter ohne Elias. Die Wegsuche prüft auch schmale Sitzmauern zwischen ihren Rasterpunkten; Schulfreunde finden nach dem Aufstehen um diese Mauern zur Gruppe zurück.
 - TypeScript-Prüfung, ESLint der geänderten Spiel- und QA-Dateien sowie Produktionsbuild bestanden.
-- Browser: Wohnung → Radegast → Haltestelle → Zörbiger Markt → Schule und zurück vollständig mit Tastatur gelaufen. Die Gölzauer Zufahrt wurde nach dem Bildabgleich nochmals in beide Richtungen geprüft, einschließlich Eintritt in den Schießstand. Der abschließende Reise-, Unterrichts- und Winterlauf besteht mit 165 Prüfschritten ohne JavaScript-Fehler.
-- Der fotobasierte Hof zeigt aus der Vogelperspektive beide Dächer und den grauen Schulbau links, das Backsteingebäude rechts, den roten Querweg, Baumbeete und die grüne Ecke mit Sitzmauern. Die vier Freunde bewegen sich entlang der blau markierten unteren Fenstergitter. Ohne Einladung erscheint kein Elias auf dem Hof.
+- Browser: Wohnung → Radegast → Haltestelle → Zörbiger Markt → Schule und zurück vollständig mit Tastatur gelaufen. Die Gölzauer Zufahrt wurde nach dem Bildabgleich nochmals in beide Richtungen geprüft, einschließlich Eintritt in den Schießstand. Der abschließende Reise-, Unterrichts- und Winterlauf besteht mit 171 Prüfschritten ohne JavaScript-Fehler.
+- Der fotobasierte Hof zeigt aus der Vogelperspektive die graue Sekundarschule im oberen Hintergrund, ihren mittigen Eingang mit Treppe, den roten Querweg, Baumbeete und die grüne Ecke mit Sitzmauern. Die Grundschule rechts liegt außerhalb des Bildausschnitts. Die vier Freunde bewegen sich entlang der blau markierten unteren Fenstergitter. Ohne Einladung erscheint kein Elias auf dem Hof.
 - Felice und Elias erreichen den Sitzrand am vorderen Baum, die Sitzmauer am Gehweg sowie die Haltestellenbank, sitzen zusammen und stehen wieder auf. Elias bleibt anschließend außerhalb der Schulgruppe ansprechbar. Elena erreicht einen Sitzplatz und die Ruhedecke in der grünen Ecke und kehrt nach dem Aufstehen zur Gruppe zurück.
-- Unterricht an der neuen Türposition springt von 7:15 auf 13:00. Gehen verbraucht keine zusätzliche Spielzeit; Ortswechsel und Ruheaktionen verwenden die vorhandenen Zeitregeln.
+- Unterricht am sichtbaren Eingang oben mittig springt von 7:15 auf 13:00. Gehen verbraucht keine zusätzliche Spielzeit; Ortswechsel und Ruheaktionen verwenden die vorhandenen Zeitregeln.
 - Ortsplan markiert den aktuellen Ort; auf Desktop und Handy vollständig sichtbar nach Scrollen im Buch.
 - Joystick per Maus-/Pointer-Drag bei 760 × 390 geprüft: Bewegung startet und stoppt beim Loslassen. Dies prüft den Pointer-Pfad, nicht reale Touch-Hardware.
 - Abschließende Browserläufe melden keine JavaScript-Fehler.
 
-Die Schule besitzt Hindernispolygone für Fassaden, Baumbeete und Sitzmauern sowie passende Vordergrundmasken. Die diagonale Sitzmauer verwendet mehrere Tiefenabschnitte, damit sitzende Figuren sichtbar bleiben. Ein eigener Browserlauf prüft 125 Schritte einschließlich beider Paar-Sitzplätze, Elenas Haltungswechsel, Hofausgang und Rückkehr, Unterricht und Winterdarstellung; alle Schritte bestehen ohne JavaScript-Fehler. Die einfache Ersatzgrafik folgt ebenfalls der Vogelperspektive und wird durch einen simulierten Bildfehler geprüft. Die Beschriftungen liegen außerhalb der Figuren; der Hofausgang bleibt vor dem Tor sichtbar und wird gegenüber einem weiter entfernten Sitzplatz bevorzugt.
+Die Schule besitzt Hindernispolygone für Fassaden, Baumbeete und Sitzmauern sowie passende Vordergrundmasken. Die diagonale Sitzmauer verwendet mehrere Tiefenabschnitte, damit sitzende Figuren sichtbar bleiben. Ein eigener Browserlauf prüft 134 Schritte einschließlich beider Paar-Sitzplätze, Elenas Haltungswechsel, Hofausgang und Rückkehr, Unterricht und Winterdarstellung; alle Schritte bestehen ohne JavaScript-Fehler. Die einfache Ersatzgrafik zeigt ebenfalls die graue Sekundarschule mit mittigem Eingang im Hintergrund und wird durch einen simulierten Bildfehler geprüft. Die Beschriftungen liegen außerhalb der Figuren; in der grünen Ecke steht der Name über der liegenden Figur, und die vier Gruppennamen sind im Handyformat kompakter gesetzt; der Hofausgang bleibt vor dem Tor sichtbar und wird gegenüber einem weiter entfernten Sitzplatz bevorzugt.
 
 ## Alle zehn Orte
 

diff --git a/game/ART-V075.md b/game/ART-V075.md
@@ -7,12 +7,12 @@ Fünf aktive PNG-Hintergründe, jeweils 1254 × 1254, wurden mit Imagegen erstel
 | `radegast-walk-v075.png` | Verkürzte, von oben schräg sichtbare Straße: Felices graues Wohnhaus mit vorgelagertem Giebel oben links, Straße nach Süden/rechts, dichte Hausreihen, rückwärtige Gärten und westliches Grün. Warme, gemalte Bildsprache passend zum bisherigen Spiel. |
 | `radegast-stop-v075.png` | Haltestellenszene im Ortskern mit Wartehäuschen, horizontaler Bank, H-Schild und Bus; freie gepflasterte Fläche vor dem Einstieg. Gestaltung ergänzt aus dem Ortskontext. |
 | `zoerbig-walk-v075.png` | Markt und Busankunft oben, gebogener südwestlicher Schulweg, Kirche rechts, langer Schulbau unten links und benachbarte Schulgebäude. Keine eingebrannten Spieltexte oder Figuren. |
-| `school-court-overhead-v075.png` | Steile Vogelperspektive mit sichtbaren Dächern und großzügiger Hofübersicht. Grauer Schulbau links mit drei Vollgeschossen, weißen Fensterrahmen, Kellergittern und Außentreppe; roter Backsteinbau rechts; roter Querweg, graues Pflaster, Baumbeete mit Sitzrändern und grüne Ecke mit hellen Sitzmauern. Keine Menschen, Beschriftungen, blaue Markierung oder freistehender Hofzaun. |
+| `school-court-secondary-v075.png` | Vogelperspektive auf den Hof, graue Sekundarschule quer im oberen Hintergrund. Mittiger dunkler Eingang mit breiter Treppe und freiem Zugang; weiße Fenster, Kellergitter und Außentreppe links. Die Grundschule rechts ist außerhalb des Bildausschnitts. Roter Querweg, graues Pflaster, vier Baumbeete mit Sitzrändern und grüne Ecke mit hellen Sitzmauern. Keine Menschen, Beschriftungen, blaue Markierung oder freistehender Hofzaun. |
 | `goelzau-walk-v075.png` | Kurzer Weg von der Straße über die Zufahrt zum Schützenhaus, Vorplatz und ländliche Umgebung. Eigene Interpretation des öffentlich belegten Orts; die Fassade ist nicht anhand einer aktuellen Außenaufnahme vermessen. |
 
-`school-court-v075.png` und `school-court-photo-v075.png` sind frühere, nicht mehr verwendete Hofgrafiken. Die Vogelperspektive entstand als Kameravariation der geprüften fotobasierten Grafik; der Grafikkatalog verweist ausschließlich auf `school-court-overhead-v075.png`.
+`school-court-v075.png`, `school-court-photo-v075.png` und `school-court-overhead-v075.png` sind frühere, nicht mehr verwendete Hofgrafiken. Der aktive Hintergrund wurde mit Imagegen aus den beiden geprüften fotobasierten Ansichten und der Nutzerklärung zur Kameraposition gestaltet. Der Grafikkatalog verweist ausschließlich auf `school-court-secondary-v075.png`.
 
-`story.ts` beschreibt begehbare Bodenflächen der drei Wegszenen sowie die Gebäude, Baumbeete und schmalen Sitzmauern des Schulhofs als Polygone. Die Wegsuche prüft zusätzlich die Strecken zwischen ihren Rasterpunkten, damit Figuren schmale Mauern nicht überspringen. `graphics.ts` legt Vordergrundmasken fest; die diagonale Sitzmauer hat mehrere Tiefenabschnitte. Auch die einfache Ersatzgrafik übernimmt die Ansicht von oben. Der südliche Bodenrand reicht bis zum sichtbaren Tor und lässt den Zugang zur grünen Ecke um die Sitzmauer frei.
+`story.ts` beschreibt begehbare Bodenflächen der drei Wegszenen sowie die Gebäude, Baumbeete und schmalen Sitzmauern des Schulhofs als Polygone. Die Wegsuche prüft zusätzlich die Strecken zwischen ihren Rasterpunkten, damit Figuren schmale Mauern nicht überspringen. `graphics.ts` legt Vordergrundmasken fest; die diagonale Sitzmauer hat mehrere Tiefenabschnitte. Auch die einfache Ersatzgrafik übernimmt die Ansicht von oben mit grauem Gebäude und mittigem Eingang im Hintergrund, ohne die Grundschule rechts. Der Unterrichtspunkt liegt vor der Treppe; sein Türsymbol wird direkt am sichtbaren Eingang dargestellt. Der südliche Bodenrand reicht bis zum sichtbaren Tor und lässt den Zugang zur grünen Ecke um die Sitzmauer frei.
 
 Elena, Jason, Luca und Wyatt bewegen sich auf kurzen Wegen entlang der unteren Fenstergitter des grauen Schulbaus. Jason und Luca gehen langsamer und pausieren länger. Elias hat dort keine Gruppenroute. Er kommt auf Einladung zum Sitzrand am vorderen Baum oder zur Sitzmauer am Gehweg. Die Ruhedecke liegt auf der freien grünen Fläche. Sitzpositionen, Aufstehwege und die kleinere Figurengröße sind auf die Vogelperspektive abgestimmt. Nach dem Aufstehen umgehen die Schulfreunde die Hofhindernisse auf ihrem Rückweg zur Gruppe.
 

diff --git a/qa/v075/SOURCES.md b/qa/v075/SOURCES.md
@@ -12,7 +12,7 @@ Recherche und Fotoabgleich vom 06.10.2026. Grundlage sind die drei vom Nutzer be
 | Zörbig, Markt | [Haltestellenplan des Busbetreibers](https://www.mein-bus.net/upload/Fahrplan/Plaene/Lageplan/Lageplan%20Z%C3%B6rbig%2C%20Markt_2025-08-11.pdf) | Suchfund bestätigt den Haltestellennamen. Die PDF ließ sich nicht öffnen; genaue aktuelle Haltepositionen und Fahrzeiten wurden daraus nicht übernommen. |
 | Historischer Ortskern Radegast | [Radegast bei im-bild.org](https://anhalt-bitterfeld.im-bild.org/fotos/geschaefte-gaststaetten/prinz-von-anhalt-radegast), [Stadt Radegast](https://de.wikipedia.org/wiki/Stadt_Radegast) | Ergänzende Beschreibungen des Ortskerns. Veröffentlichte Fotos werden nicht als Spielassets verwendet. |
 | Schützenhaus Gölzau | [Schützenverein Gölzau 1990 e.V.](https://www.schuetzenvereingoelzau1990ev.de/), [Kreisschützenverband Anhalt](https://www.ksv-anhalt.de/ksv.html) | Bestätigen Verein und Schützenhaus/Landesleistungszentrum in Weißandt-Gölzau. Eine ausreichend überprüfbare aktuelle Außenansicht stand nicht zur Verfügung. |
-| Schulhof, Fassaden und Sitzbereiche | Vier Nutzerfotos im Chat | Langer grauer Schulbau links mit drei Vollgeschossen, unteren Fenstern und Außentreppe; Backsteinbau rechts; graues Pflaster, roter Querweg, polygonale Baumbeete mit Sitzrändern und grüne Fläche mit hellen Sitzmauern. Die Spielansicht verwendet eine steile Vogelperspektive mit sichtbaren Dächern; die Bezugspunkte der Fotos bleiben erhalten. Das zeitweilige Baugerüst wird nicht übernommen. Der gemalte Hintergrund enthält keine Personen aus den Fotos. |
+| Schulhof, Fassaden und Sitzbereiche | Vier Nutzerfotos im Chat und direkte Nutzerklärung zur Kamera | Graue Sekundarschule mit weißen Fenstern, unteren Gittern und Außentreppe; zentraler Eingang mit Treppe aus Foto 4. Der gewählte Bildausschnitt setzt die Sekundarschule quer in den oberen Hintergrund und lässt die rechts angrenzende Grundschule außerhalb der Ansicht. Graues Pflaster, roter Querweg, polygonale Baumbeete mit Sitzrändern und grüne Fläche mit hellen Sitzmauern bleiben wiedererkennbar. Das zeitweilige Baugerüst wird nicht übernommen. Der gemalte Hintergrund enthält keine Personen aus den Fotos. |
 | Blau markierter Treffpunkt | Nutzerfoto 1 und direkte Nutzerklärung | Die Markierung liegt an den Gittern vor den unteren Fenstern des grauen Gebäudes. Elena, Jason, Luca und Wyatt stehen und bewegen sich dort; Elias nicht. Sitzrand und Sitzmauer sind davon getrennte Ruheplätze. |
 
 ## Grenzen des Abgleichs

diff --git a/README.md b/README.md
@@ -6,7 +6,7 @@ Version **0.75**: ein eigenständiges, mobiles 2D-Spiel mit zehn zusammenhängen
 
 - **Radegast:** Von Felices Wohnung führt ein verkürzter, wiedererkennbarer Weg entlang der Hausreihen und Gärten zur neu gestalteten Bushaltestelle.
 - **Zörbig:** Der Bus kommt am Markt an. Von dort geht es zu Fuß an der Kirche vorbei zur Sekundarschule und auf den Pausenhof. Markt, Kirche und Schule folgen der Anordnung im bereitgestellten Luftbild.
-- **Pausenhof:** Die steile Vogelperspektive zeigt beide Dächer und den begehbaren Hof. Die vier Schulhof-Fotos bestimmen den grauen Schulbau links, das Backsteingebäude rechts, den roten Gehweg, Baumbeete mit Sitzrändern und die grüne Ecke mit Sitzmauern. Elena, Jason, Luca und Wyatt bewegen sich an den blau markierten Fenstergittern des grauen Gebäudes. Elias gehört nicht zu dieser Gruppe; Felice kann ihn separat zum Sitzen am Baum oder auf der Sitzmauer einladen.
+- **Pausenhof:** Aus der Vogelperspektive liegt die graue Sekundarschule im Hintergrund. Ihr mittiger Eingang mit Treppe ist sichtbar und dient als Unterrichtszugang. Die Grundschule rechts bleibt außerhalb der Ansicht. Die Schulhof-Fotos bestimmen das graue Pflaster, den roten Querweg, Baumbeete mit Sitzrändern und die grüne Ecke mit Sitzmauern. Elena, Jason, Luca und Wyatt bewegen sich an den blau markierten Fenstergittern. Elias gehört nicht zu dieser Gruppe; Felice kann ihn separat zum Sitzen am Baum oder auf der Sitzmauer einladen.
 - **Gölzau:** Der neue Weg führt über die Zufahrt zum Schützenhaus und weiter in den vorhandenen Schießstand. Alle neuen Wege besitzen Rückwege, angepasste Hindernisse und Vordergrundmasken.
 - **Ortsplan:** Das Erinnerungsbuch zeigt die Verbindungen zwischen Wohnung, Radegast, Zörbig und Gölzau sowie den aktuellen Ort. Tagesregeln, Kapitel und bestehende Spielstände bleiben erhalten.
 
